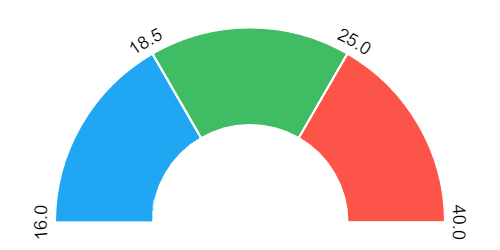
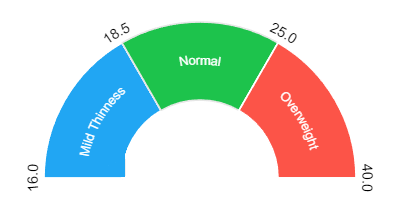
update BMI_Modal

diff --git a/src/components/BodyMassIndex/BodyMassIndex.jsx b/src/components/BodyMassIndex/BodyMassIndex.jsx
@@ -6,6 +6,8 @@ import { useSelector } from 'react-redux';
 import { selectUser } from '../../redux/auth/selectors';
 import BMIImage from '../../image/BMI.png';
 import Loader from '../../components/Loader/Loader';
+import getBmiResult from 'components/utils/getBmiResult ';
+import getColorClass from 'components/utils/getColorClassForBmi';
 import css from './BodyMassIndex.module.css';
 
 const schema = yup.object().shape({
@@ -21,7 +23,7 @@ const schema = yup.object().shape({
 
 export default function BodyMassIndex() {
   const userInfo = useSelector(selectUser);
-  const [bmiValue, setBmiValue] = useState(null);
+  const [bmiData, setBmiData] = useState(null);
   const [loading, setLoading] = useState(false);
   const [dataError, setDataError] = useState('');
 
@@ -35,57 +37,41 @@ export default function BodyMassIndex() {
   });
 
   useEffect(() => {
-    if (userInfo) {
-      setValue('weight', userInfo.weight || 0);
-      setValue('height', userInfo.height || 0);
+    const storedData = JSON.parse(localStorage.getItem('bmiData'));
+    if (storedData) {
+      setBmiData(storedData);
+      setValue('weight', storedData.weight);
+      setValue('height', storedData.height);
+    } else if (userInfo) {
+      setValue('weight', userInfo.weight);
+      setValue('height', 0);
     }
   }, [userInfo, setValue]);
 
-  const onSubmit = async data => {
+  function onSubmit(data) {
     setLoading(true);
     try {
       const { weight, height } = data;
 
-      setDataError('');
-
       if (!weight || !height) {
         setDataError('Please enter both weight and height.');
-        setBmiValue(null);
         setLoading(false);
         return;
       }
 
-      if (height < 40 || height > 250) {
-        if (height !== '') {
-          setDataError('Height must be between 40 cm and 250 cm.');
-          setBmiValue(null);
-          setLoading(false);
-          return;
-        }
-      }
-
       const heightInMeters = height / 100;
       const bmi = weight / (heightInMeters * heightInMeters);
-      setBmiValue(bmi.toFixed(2));
+      const newBmiData = { weight, height, bmiValue: bmi.toFixed(1) };
+      localStorage.setItem('bmiData', JSON.stringify(newBmiData));
+      setBmiData(newBmiData);
+      setDataError('');
     } catch (error) {
-      console.error('Error:', error);
     } finally {
-      //   setBmiValue(0);
       setLoading(false);
     }
-  };
+  }
 
-  const getColorClass = bmi => {
-    if (bmi < 18.5) {
-      return css.blueText;
-    } else if (bmi >= 18.5 && bmi < 25) {
-      return css.greenText;
-    } else if (bmi >= 25) {
-      return css.redText;
-    } else {
-      return '';
-    }
-  };
+  const bmiColorClass = getColorClass(parseFloat(bmiData?.bmiValue));
 
   return (
     <div className={css.wrapper}>
@@ -101,7 +87,7 @@ export default function BodyMassIndex() {
         </p>
         <div className={css.formElements}>
           <div className={css.labels}>
-            <div className={css.formGroup}>
+            <div className={`${css.formGroup} ${css.weightInput}`}>
               <label htmlFor="weight" className={css.label}>
                 Weight (kg):
               </label>
@@ -114,25 +100,26 @@ export default function BodyMassIndex() {
                 autoComplete="weight"
               />
               {errors.weight && (
-                <span className={`${css.weight} ${css.error}`}>
+                <span className={`${css.weightError} ${css.error}`}>
                   Weight is required
                 </span>
               )}
             </div>
-            <div className={css.formGroup}>
+            <div className={`${css.formGroup} ${css.heightInput}`}>
               <label htmlFor="height" className={css.label}>
                 Height (cm):
               </label>
               <input
                 type="number"
-                min="0"
+                min="40"
+                max="300"
                 id="height"
-                {...register('height')}
+                {...register('height', { value: bmiData?.height })}
                 className={css.input}
                 autoComplete="height"
               />
               {errors.height && (
-                <span className={`${css.height} ${css.error}`}>
+                <span className={`${css.heightError} ${css.error}`}>
                   Height is required
                 </span>
               )}
@@ -142,23 +129,18 @@ export default function BodyMassIndex() {
             {loading ? 'Calculating...' : 'Calculate BMI'}
           </button>
         </div>
-
         {dataError && <span className={css.error}>{dataError}</span>}
-        {bmiValue !== null && (
+        {bmiData && (
           <div className={css.result}>
             <div className={css.thumb}>
               <img src={BMIImage} alt="Body mass index" className={css.image} />
             </div>
-            <p className={`${css.value} ${getColorClass(bmiValue)}`}>
-              {bmiValue}
+            <p className={`${css.value} ${css[bmiColorClass]}`}>
+              {bmiData.bmiValue}
             </p>
-            {bmiValue !== null && (
-              <p className={`${css.indexMessage} ${getColorClass(bmiValue)}`}>
-                {bmiValue < 18.5
-                  ? 'BMI is LOW'
-                  : bmiValue < 25
-                  ? 'BMI is NORMAL'
-                  : 'BMI is HIGH'}
+            {bmiData !== null && (
+              <p className={`${css.indexMessage} ${css[bmiColorClass]}`}>
+                {bmiData.bmiValue} - {getBmiResult(bmiData.bmiValue)}
               </p>
             )}
           </div>

diff --git a/src/components/BodyMassIndex/BodyMassIndex.module.css b/src/components/BodyMassIndex/BodyMassIndex.module.css
@@ -7,7 +7,7 @@
 
 @media only screen and (min-width: 768px) {
   .wrapper {
-    width: 303px;
+    width: 403px;
   }
 }
 
@@ -18,6 +18,13 @@
 
 .formElements {
   display: flex;
+  align-items: center;
+  justify-content: space-between;
+}
+@media only screen and (min-width: 768px) {
+  .formElements {
+    justify-content: space-between;
+  }
 }
 
 .formGroup {
@@ -40,7 +47,7 @@
 
 .label {
   font-family: 'Poppins', sans-serif;
-  font-weight: 400;
+  font-weight: 700;
   font-size: 14px;
   line-height: 1.28571;
   letter-spacing: -0.01em;
@@ -55,20 +62,43 @@
   width: 130px;
 }
 
+@media only screen and (min-width: 768px) {
+  .input {
+    width: 230px;
+  }
+}
+
 .input:focus-within {
   outline: none;
   border: 1px solid var(--accent-color);
 }
 
+.weightInput,
+.heightInput {
+  position: relative;
+}
+
+@media only screen and (min-width: 768px) {
+  .heightError,
+  .weightError {
+    top: 88px;
+  }
+}
+
 .text {
-  width: 280px;
+  max-width: 303px;
+  font-family: 'Poppins', sans-serif;
+  font-weight: 400;
+  font-size: 14px;
+  line-height: 1.28571;
+  letter-spacing: -0.01em;
   margin-bottom: 15px;
   text-align: justify;
 }
 
 @media only screen and (min-width: 768px) {
   .text {
-    width: 300px;
+    max-width: 568px;
   }
 }
 
@@ -84,10 +114,9 @@
   color: var(--main-text-color);
   font-family: 'Poppins-Bold';
   font-size: 14px;
-  margin: auto 0 25px auto;
 }
 
-@media only screen and (min-width: 1440px) {
+@media only screen and (min-width: 768px) {
   .btn {
     width: 150px;
   }
@@ -116,8 +145,8 @@
 
 .value {
   position: absolute;
-  top: 90px;
-  left: 100px;
+  top: 95px;
+  left: 110px;
   font-family: 'Poppins', sans-serif;
   font-size: 30px;
   line-height: 1.28571;
@@ -127,8 +156,8 @@
 
 @media only screen and (min-width: 768px) {
   .value {
-    top: 100px;
-    left: 110px;
+    top: 148px;
+    left: 170px;
   }
 }
 
@@ -145,7 +174,21 @@
 }
 
 .error {
+  font-family: 'Poppins', sans-serif;
+  font-weight: 400;
+  font-size: 10px;
+  line-height: 1.28571;
+  letter-spacing: -0.01em;
+  color: red;
+  max-width: 303px;
   margin-top: 10px;
+}
+
+.heightError,
+.weightError {
+  position: absolute;
+  top: 65px;
+  left: 10px;
 }
 
 .indexMessage {

diff --git a/src/components/utils/getBmiResult .js b/src/components/utils/getBmiResult .js
@@ -1,0 +1,20 @@
+export default function getBmiResult(bmiValue) {
+  if (bmiValue < 16) {
+    return 'Severe Thinness';
+  } else if (bmiValue >= 16 && bmiValue <= 16.9) {
+    return 'Moderate Thinness';
+  } else if (bmiValue >= 17 && bmiValue <= 18.4) {
+    return 'Mild Thinness';
+  } else if (bmiValue >= 18.5 && bmiValue <= 24.9) {
+    return 'Normal';
+  } else if (bmiValue >= 25 && bmiValue <= 29.9) {
+    return 'Overweight';
+  } else if (bmiValue >= 30 && bmiValue <= 34.9) {
+    return 'Obese Class I';
+  } else if (bmiValue >= 35 && bmiValue <= 39.9) {
+    return 'Obese Class II';
+  } else if (bmiValue >= 40) {
+    return 'Obese Class III';
+  }
+  return '';
+}

diff --git a/src/components/UserBarPopover/UserBarPopover.jsx b/src/components/UserBarPopover/UserBarPopover.jsx
@@ -75,9 +75,6 @@ export default function UserBarPopover({ popoverOpen, setPopoverOpen }) {
           <p className={css.settingsItem}>Settings</p>
         </li>
         <li className={css.listItem} onClick={openBMIModal}>
-          {/* <svg className={css.iconSettings}>
-            <use href={`${IconSprite}#IconSettings`}></use>
-          </svg> */}
           <div className={css.iconCalc}>
             <IoMdCalculator className={css.iconCalcItem} />
           </div>

diff --git a/src/components/BmiModal/BmiModal.module.css b/src/components/BmiModal/BmiModal.module.css
@@ -1,8 +1,6 @@
 .wrapper {
   padding: 20px;
   overflow: auto;
-  scrollbar-color: var(--accent-color) #edfaf6;
-  scrollbar-width: thin;
 }
 
 .title {
@@ -12,11 +10,11 @@
   line-height: 1.2;
   letter-spacing: -0.01em;
   color: var(--main-color);
-  margin-bottom: 10px;
+  margin-bottom: 20px;
 }
 @media only screen and (min-width: 768px) {
   .title {
-    font-size: 28px;
+    font-size: 22px;
     line-height: 1.14286;
   }
 }

diff --git a/src/Modals/UserSettingsForm/UserSettingsForm.jsx b/src/Modals/UserSettingsForm/UserSettingsForm.jsx
@@ -294,6 +294,7 @@ const UserSettingsForm = ({ closeModal }) => {
               <input
                 type="number"
                 min="0"
+                max="24"
                 id="activeTime"
                 {...register('activeTime')}
                 className={css.input}

diff --git a/src/components/utils/getColorClassForBmi.js b/src/components/utils/getColorClassForBmi.js
@@ -1,0 +1,11 @@
+export default function getColorClass(bmi) {
+  if (bmi < 18.5) {
+    return 'blueText';
+  } else if (bmi >= 18.5 && bmi < 25) {
+    return 'greenText';
+  } else if (bmi >= 25) {
+    return 'redText';
+  } else {
+    return '';
+  }
+}
